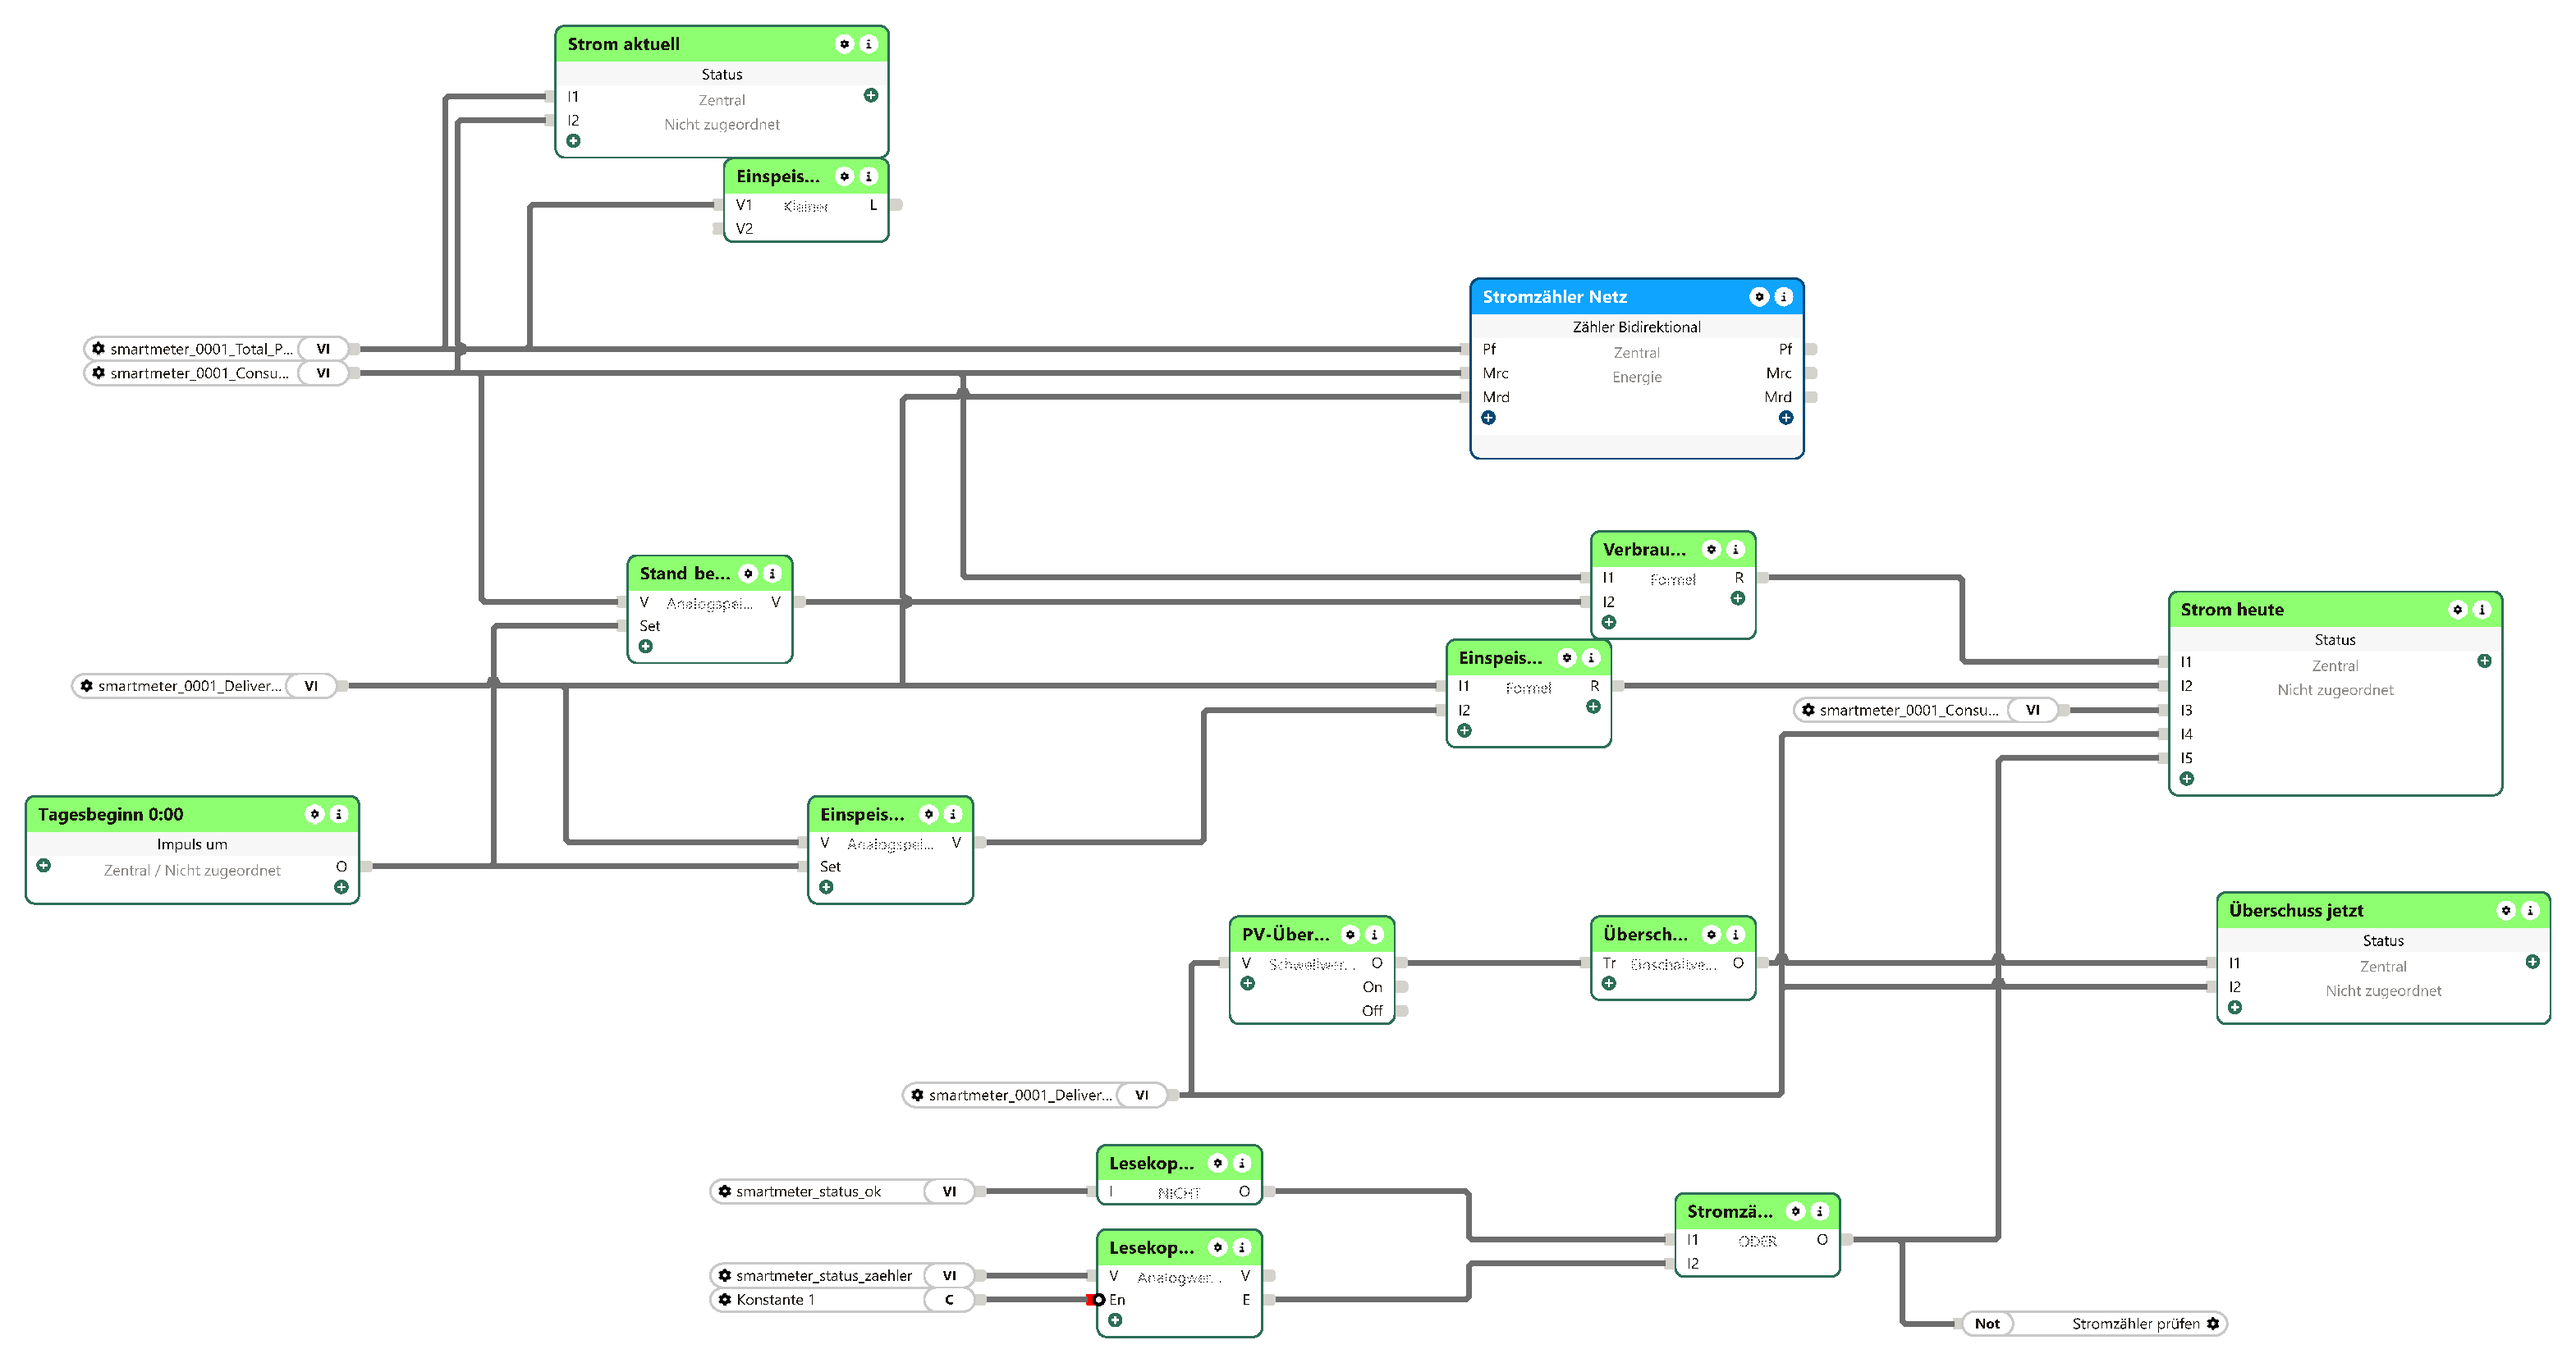
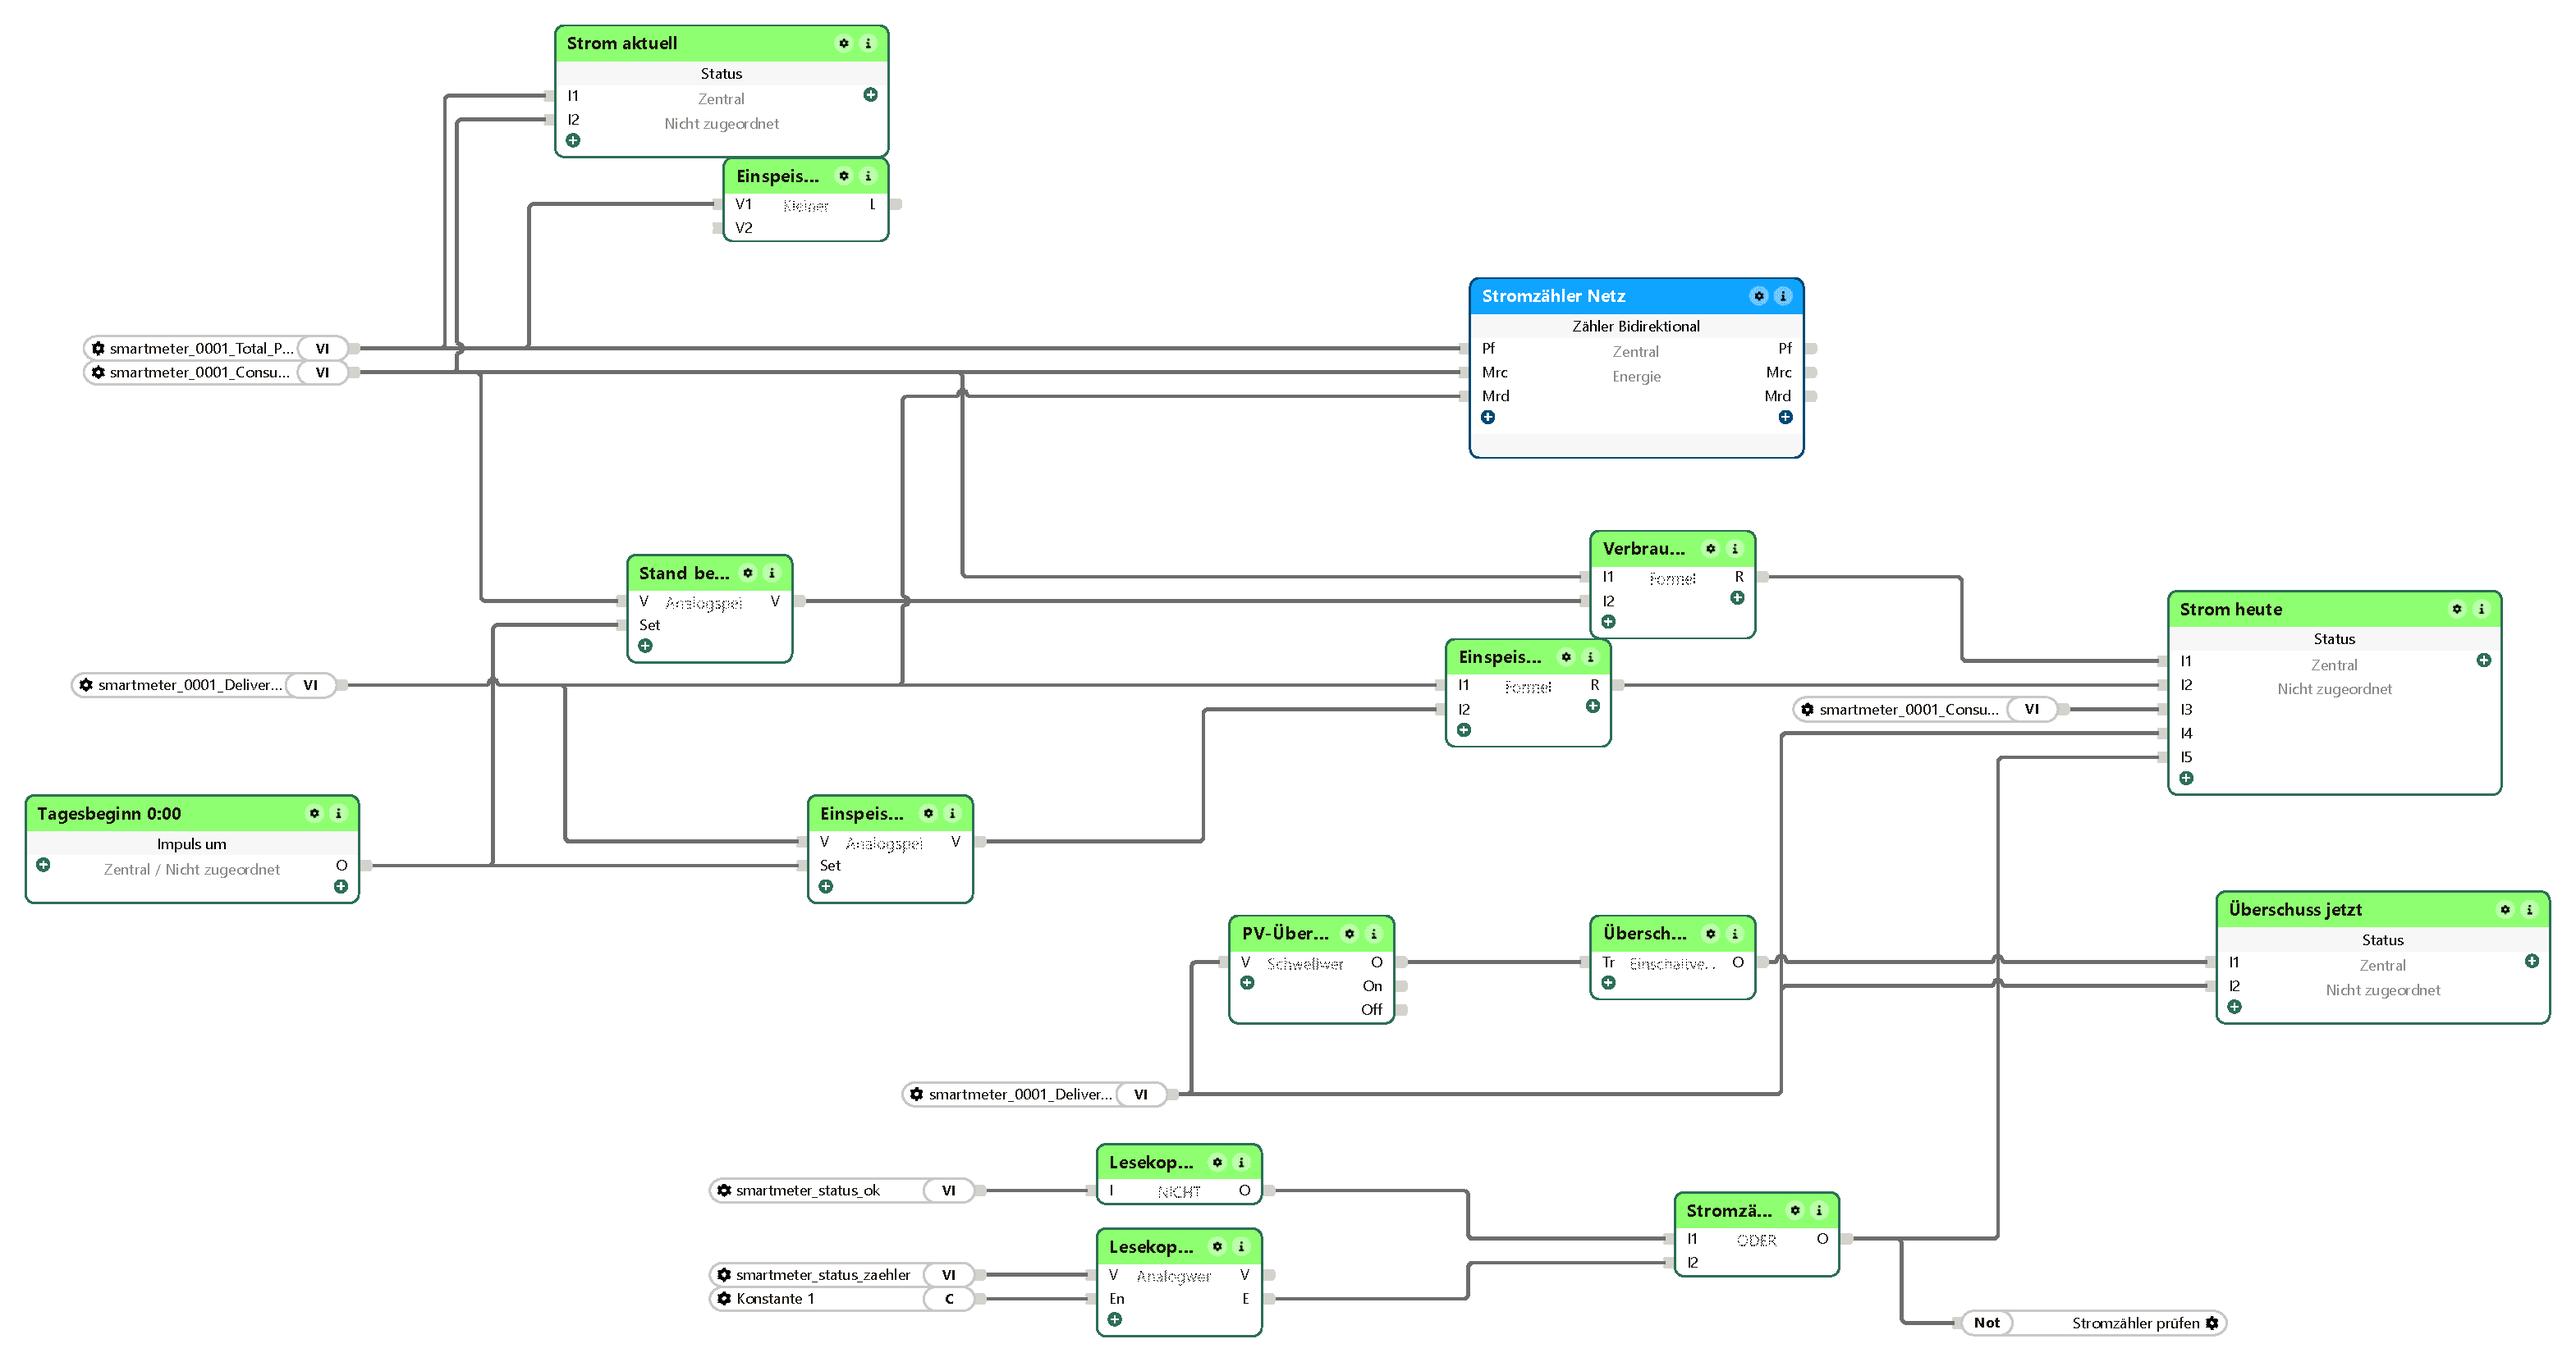
Smartmeter-classic 2.8.10: Einbindung: Eingang En der Analogwertvalidierung nicht negieren (Hinweis, Bilder)
Einbindung in Loxone: Eingang En der Analogwertvalidierung nicht negieren (Hinweis und Bild); ohne diese
Korrektur löste die Ausfallmeldung nie aus. Wer die Seite schon gebaut hat: Haken bei ‚En‘ entfernen.

diff --git a/webfrontend/htmlauth/index.php b/webfrontend/htmlauth/index.php
@@ -1868,6 +1868,7 @@ foreach ($sm_bl_wege as $sm_bl_w) {
             sm_t('BAUSTEIN.H_STATISTIK'),
             sm_t('BAUSTEIN.K_H_UEBERSCHUSS'),
             sm_t('BAUSTEIN.K_H_TAKT'),
+            sm_t('BAUSTEIN.H_EN'),
             sm_t('BAUSTEIN.H_EINWEG'),
             $sm_bl_benachr,
             sm_t('BAUSTEIN.H_ODER'),
@@ -1879,6 +1880,7 @@ foreach ($sm_bl_wege as $sm_bl_w) {
             sm_t('BAUSTEIN.H_FEHLT'),
             sm_t('BAUSTEIN.H_STATISTIK'),
             sm_t('BAUSTEIN.V_H_UEBERSCHUSS'),
+            sm_t('BAUSTEIN.H_EN'),
             sm_t('BAUSTEIN.H_EINWEG'),
             $sm_bl_benachr,
             sm_t('BAUSTEIN.H_ODER'),

diff --git a/README.md b/README.md
@@ -10,6 +10,11 @@ mit **beiden** Lesewegen: dem klassischen Perl-Leser und vzlogger.
 > setzt ausschließlich auf vzlogger und hat den Legacy-Leser entfernt.
 > Einzelheiten und Lizenzangaben in [`NOTICE`](NOTICE).
 
+## Neu in 2.8.10
+
+Einbindung in Loxone: Eingang En der Analogwertvalidierung nicht negieren (Hinweis und Bild); ohne diese
+Korrektur löste die Ausfallmeldung nie aus. Wer die Seite schon gebaut hat: Haken bei ‚En‘ entfernen.
+
 ## Neu in 2.8.9
 
 Vollausstattung aus dem [LoxBerry-Plugins Musterprojekt](https://github.com/timanders22/LoxBerry-Plugins-Musterprojekt): Der Reiter
